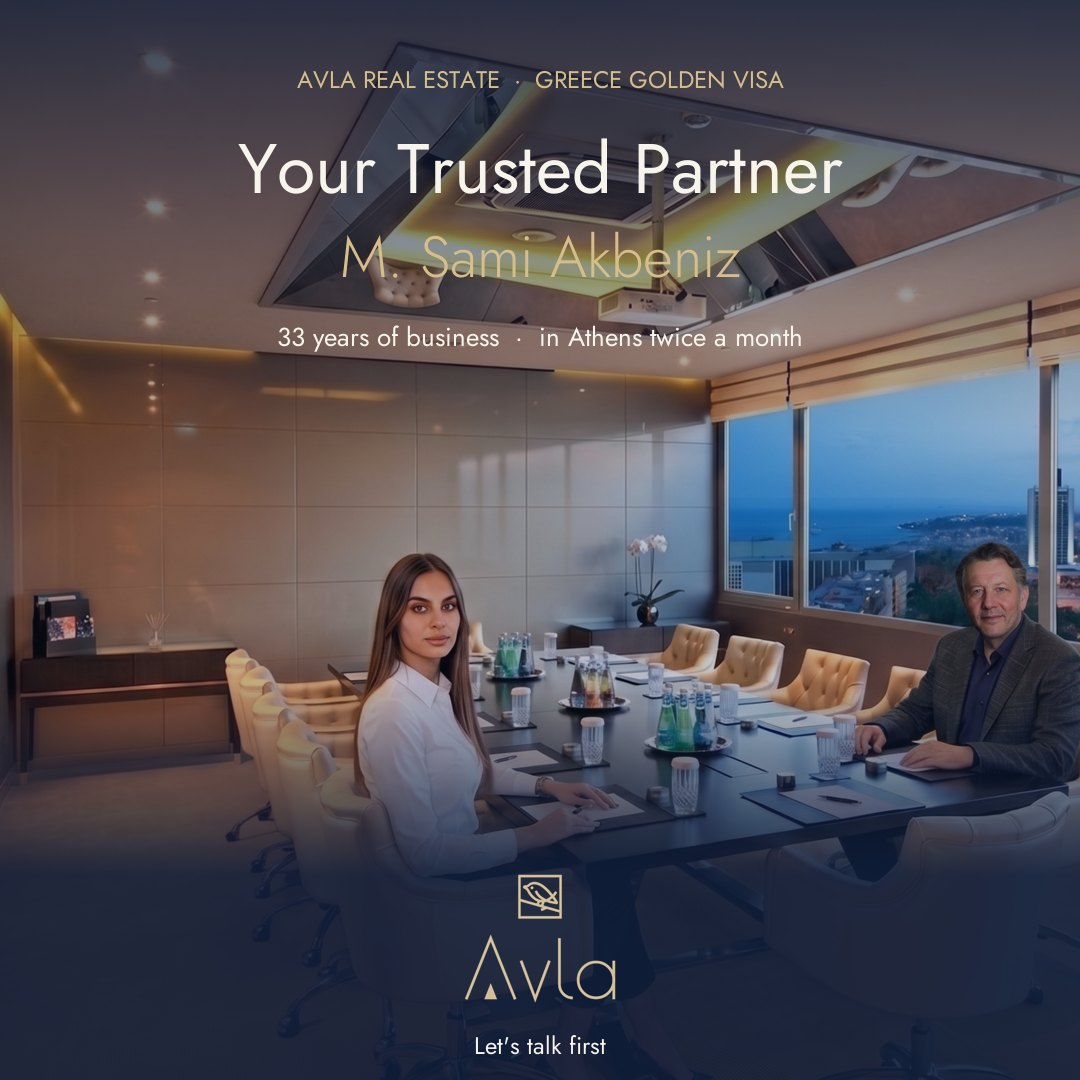
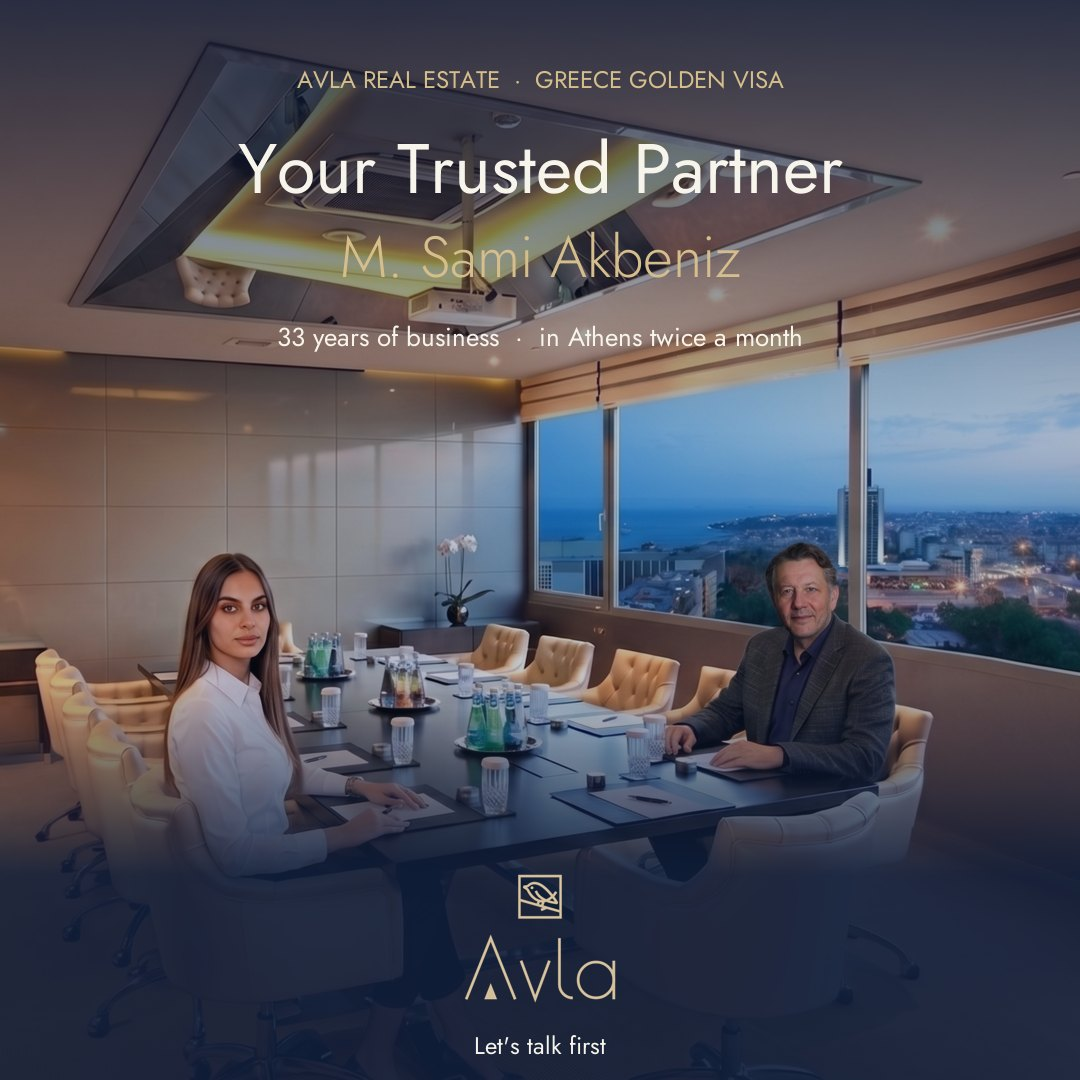
Cover: centred between both people

diff --git a/index.html b/index.html
@@ -10,8 +10,8 @@
 <meta property="og:title" content="M. Sami Akbeniz · Avla Real Estate · Greece Golden Visa">
 <meta property="og:description" content="Avla — monthly Greece Golden Visa investor meetings in Istanbul. By invitation, one-on-one format, with a guest Greek developer every month.">
 <meta property="og:url" content="https://trusted-partner.avlarealestate.com/">
-<meta property="og:image" content="https://trusted-partner.avlarealestate.com/img/og-cover-general-en.jpg?v=1">
-<meta property="og:image:secure_url" content="https://trusted-partner.avlarealestate.com/img/og-cover-general-en.jpg?v=1">
+<meta property="og:image" content="https://trusted-partner.avlarealestate.com/img/og-cover-general-en.jpg?v=2">
+<meta property="og:image:secure_url" content="https://trusted-partner.avlarealestate.com/img/og-cover-general-en.jpg?v=2">
 <meta property="og:image:width" content="1080">
 <meta property="og:image:height" content="1080">
 <meta property="og:image:type" content="image/jpeg">
@@ -21,7 +21,7 @@
 <meta name="twitter:card" content="summary_large_image">
 <meta name="twitter:title" content="M. Sami Akbeniz · Avla Real Estate · Greece Golden Visa">
 <meta name="twitter:description" content="Monthly Greece Golden Visa investor meetings in Istanbul — by invitation, with a guest Greek developer every month.">
-<meta name="twitter:image" content="https://trusted-partner.avlarealestate.com/img/og-cover-general-en.jpg?v=1">
+<meta name="twitter:image" content="https://trusted-partner.avlarealestate.com/img/og-cover-general-en.jpg?v=2">
 
 <link rel="icon" type="image/png" sizes="32x32" href="./img/favicon-32-lacivert.png">
 <link rel="apple-touch-icon" href="./img/apple-touch-icon-180-lacivert.png">
@@ -86,7 +86,7 @@
   "alternateName": "Avla Real Estate",
   "url": "https://www.avlarealestate.com/",
   "logo": "https://trusted-partner.avlarealestate.com/img/avla-kare-lacivert-altin-kucuk-10-1080.png",
-  "image": "https://trusted-partner.avlarealestate.com/img/og-cover-general-en.jpg?v=1",
+  "image": "https://trusted-partner.avlarealestate.com/img/og-cover-general-en.jpg?v=2",
   "telephone": "+90-216-470-53-81",
   "email": "realestate@avla.com.tr",
   "founder": {"@id": "https://trusted-partner.avlarealestate.com/#sami"},
@@ -128,7 +128,7 @@
   "eventSchedule": {"@type": "Schedule", "repeatFrequency": "P1M", "scheduleTimezone": "Europe/Istanbul"},
   "location": {"@type": "City", "name": "Istanbul"},
   "organizer": {"@type": "Organization", "name": "Avla Real Estate", "url": "https://www.avlarealestate.com"},
-  "image": "https://trusted-partner.avlarealestate.com/img/og-cover-general-en.jpg?v=1",
+  "image": "https://trusted-partner.avlarealestate.com/img/og-cover-general-en.jpg?v=2",
   "inLanguage": "en"
 }
 </script>
